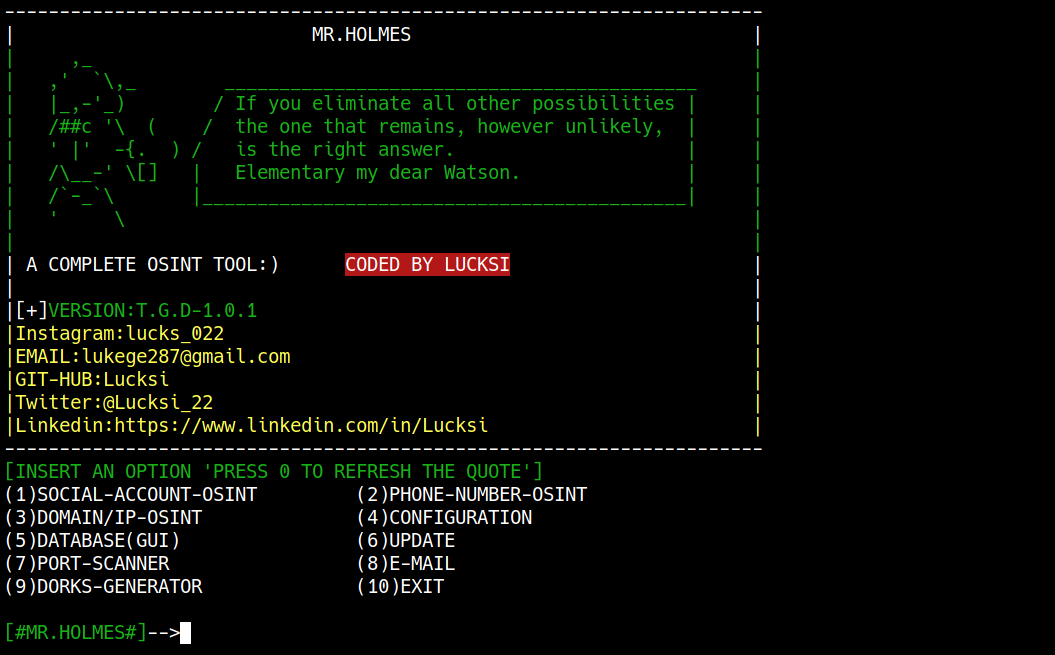
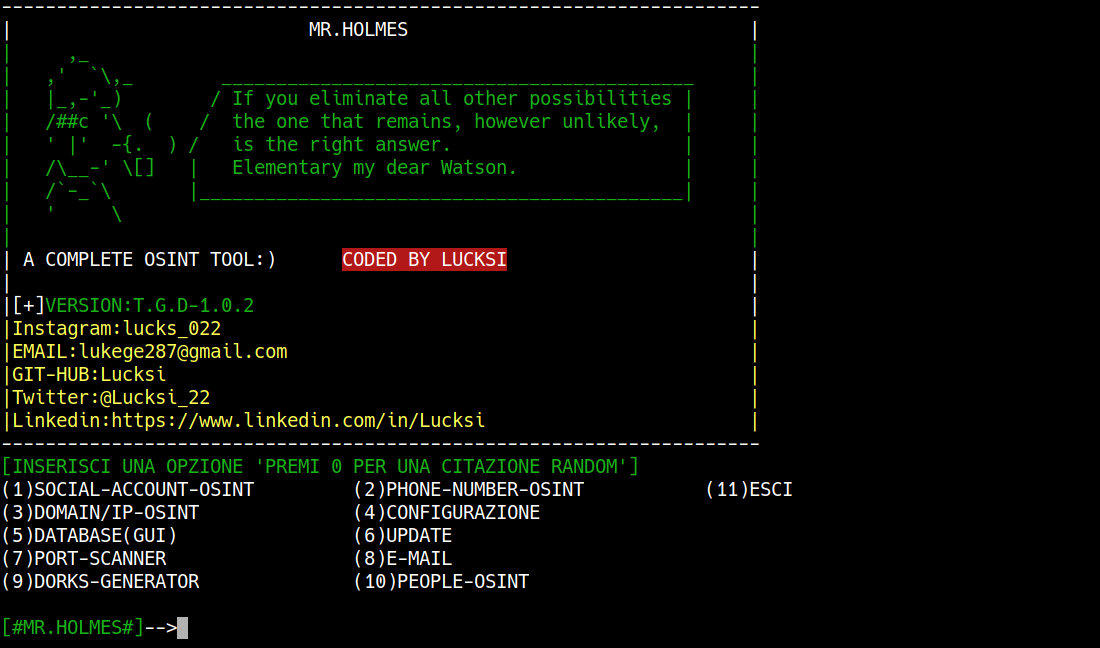
Add files via upload

diff --git a/Documentation/README_FR.md b/Documentation/README_FR.md
@@ -194,7 +194,7 @@ write:François
 <br>
 
 # VERSION ACTUELLE:
-## T.G.D-1.0.1
+## T.G.D-1.0.2
 
 <br>
 

diff --git a/README.md b/README.md
@@ -192,7 +192,7 @@ write:François
 <br>
 
 # ACTUAL VERSION:
-## T.G.D-1.0.1
+## T.G.D-1.0.2
 
 <br>
 

diff --git a/Documentation/README_ITA.md b/Documentation/README_ITA.md
@@ -195,7 +195,7 @@ write:François
 
 
 # VERSIONE ATTUALE:
-## T.G.D-1.0.1
+## T.G.D-1.0.2
 
 <br>
 
